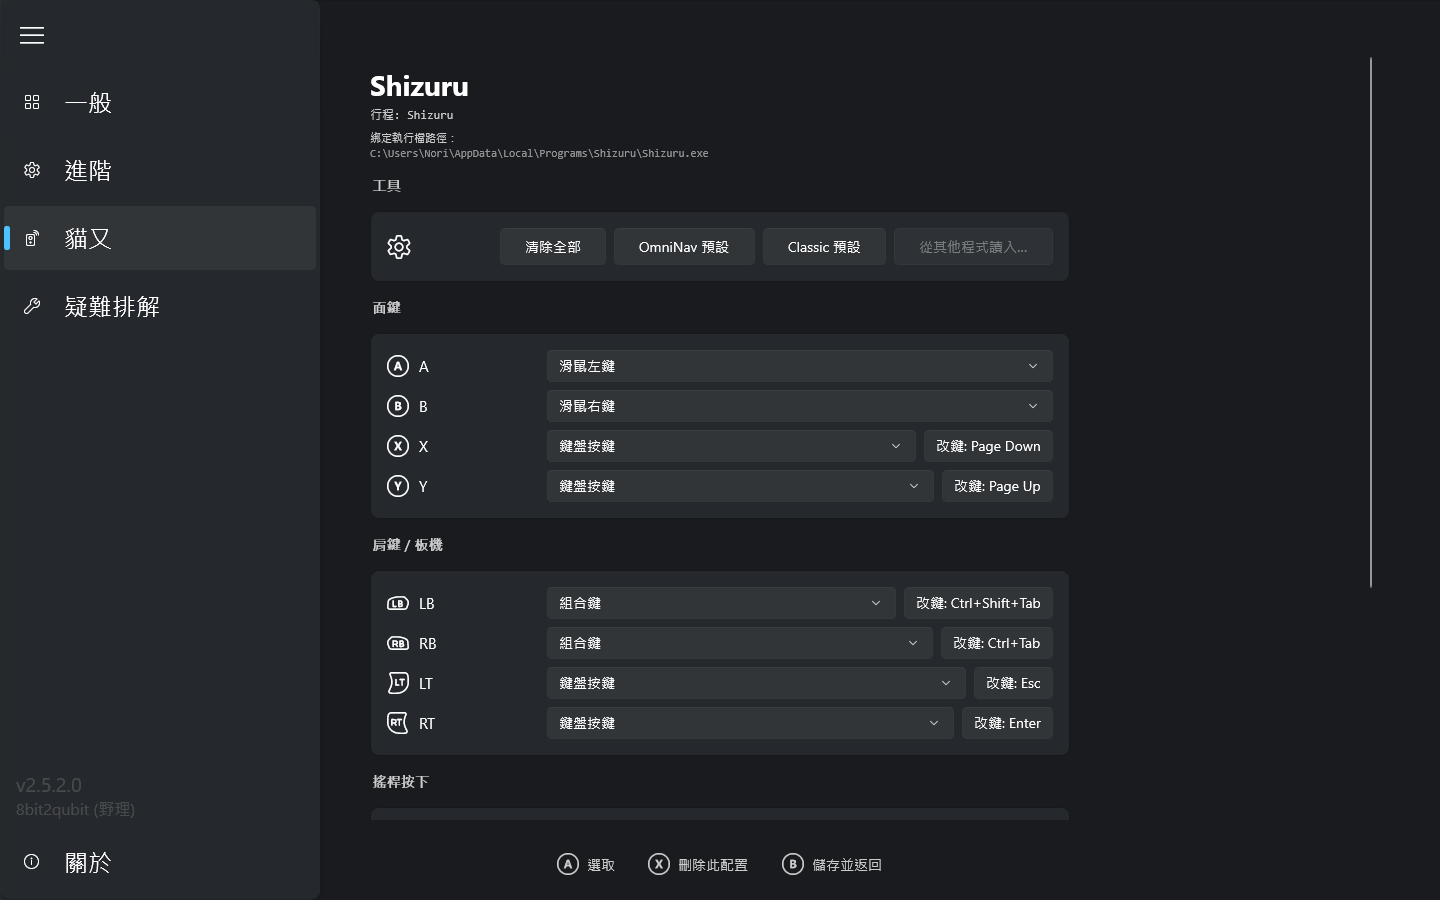
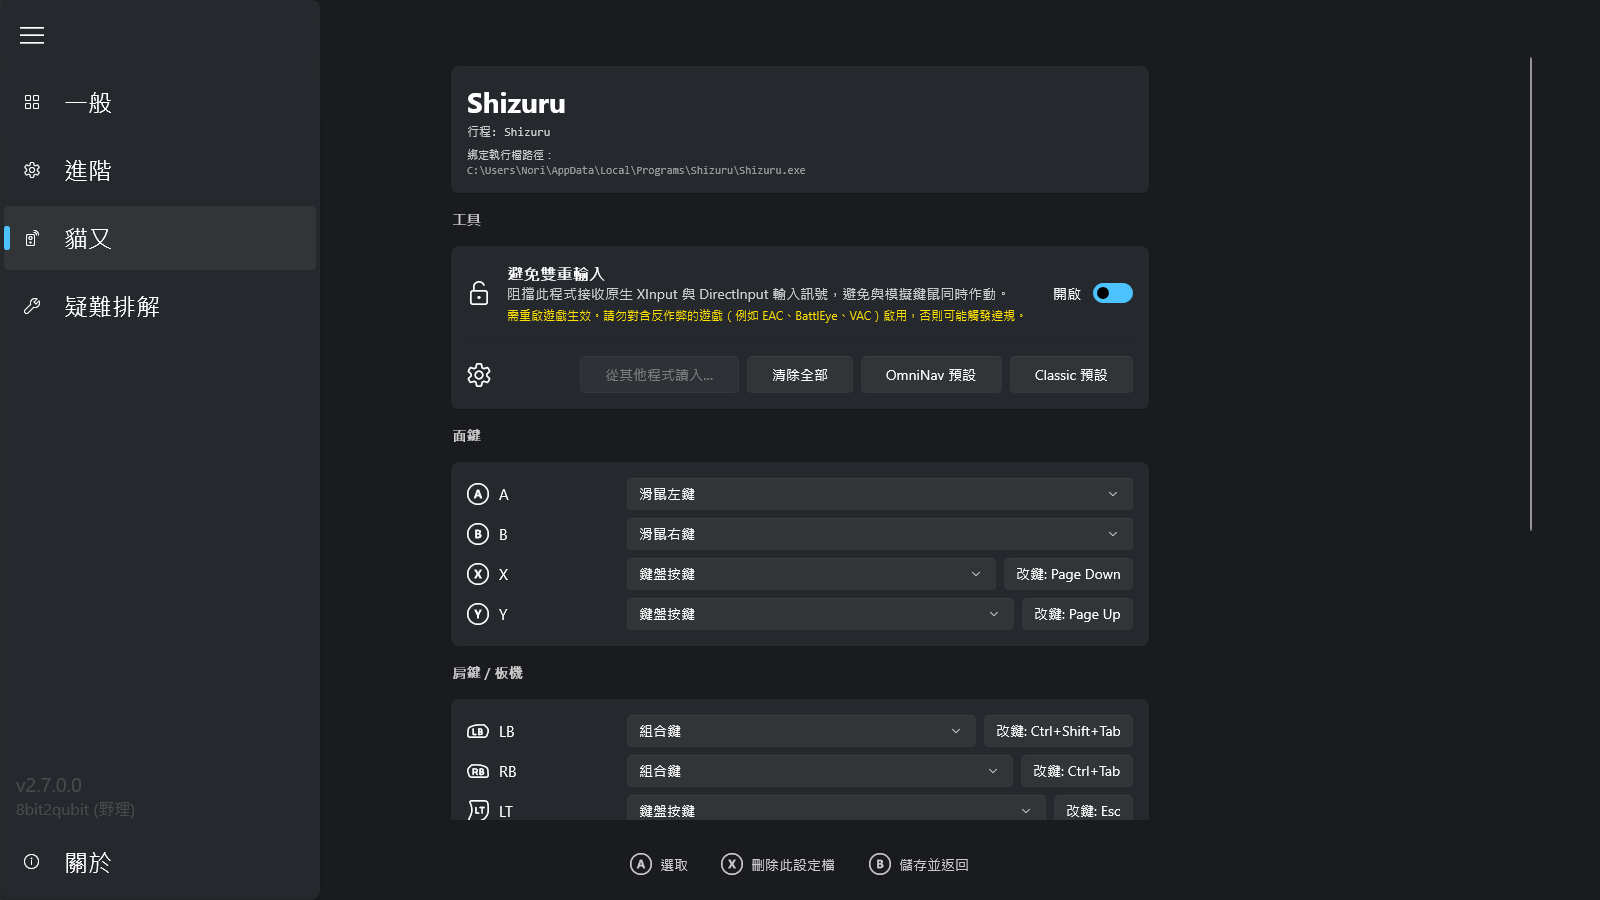
chore: Bump version to 2.7.0.0 and introduce Nekomata profile search and double-input blocking

diff --git a/README.zh-TW.md b/README.zh-TW.md
@@ -19,7 +19,9 @@
 
 ## 💡 什麼是 OmniConsole？
 
-OmniConsole 在 PC 與掌機（ROG Xbox Ally X 等）上作為你的 Windows 11 Xbox 模式 (FSE) 首頁殼層，並提供 OmniCharm Game Bar 小工具、滑鼠模式、Steam 快捷鍵與貓又的各程式手把映射，讓一切操作都不離手把。只要觸發 Xbox 模式 (FSE)，OmniConsole 就會自動啟動你設定的遊戲平台。任何平台都能當你的 Xbox 模式 (FSE) 首頁 — Steam、Xbox、Epic、Armoury Crate SE、Playnite，或你自行新增的平台。
+OmniConsole 在 PC 與掌機（ROG Xbox Ally X 等）上作為你的 Windows 11 Xbox 模式 (FSE) 首頁殼層，並提供 OmniCharm Game Bar 小工具、滑鼠模式、Steam 快捷鍵與貓又的各程式手把映射，讓一切操作都不離手把。
+
+只要觸發 Xbox 模式 (FSE)，OmniConsole 就會自動啟動你設定的遊戲平台。任何平台都能當你的 Xbox 模式 (FSE) 首頁 — Steam、Xbox、Epic、Armoury Crate SE、Playnite，或你自行新增的平台。
 
 - **開機時**：啟用「啟動時進入 Xbox 模式 (FSE)」後，開機即自動啟動你設定的遊戲平台。
 - **使用中**：按下 **Xbox 鍵**，點選 Game Bar 的「**首頁**」啟動遊戲平台，或點選「**媒體櫃**」開啟 OmniConsole 設定。
@@ -41,7 +43,7 @@ OmniConsole 在 PC 與掌機（ROG Xbox Ally X 等）上作為你的 Windows 11 
 - **手把支援** – 以**方向鍵**或**左搖桿**導覽；**A 鍵**確認、**B 鍵**退出、**LB/RB** 切換分類索引標籤、**Y 鍵**新增自訂平台、**X 鍵**編輯，**Menu（☰）鍵**將聚焦平台設為預設並立即啟動（僅在 OmniConsole 於 Xbox 模式 (FSE) 中執行時可用）。
 - **手把滑鼠模式** – 將手把當作滑鼠與鍵盤使用。三種模式：**關閉**、**自動**（瀏覽器、檔案總管、Steam、Epic Games Store、Discord）與**強制開啟**（所有應用程式，排除清單除外）。游標速度可調，並提供兩種控制器版面配置：**OmniNav** 與 **Classic**。
 - **OmniCharm 小工具** – 遊戲中快速存取的 Game Bar 小工具：一鍵開啟**工作檢視**、**Xbox 媒體櫃**或 **Steam 遊戲內嵌介面**；切換**手把滑鼠模式**、控制器版面、游標速度與 **Steam 遊戲內嵌介面**（長按 ☰）。
-- **貓又 — 自訂各程式手把映射** – 貓又為每個程式編一道咒，將所有 XInput 輸入位（A/B/X/Y、LB/RB、LT/RT、LS/RS、十字鍵、雙搖桿）重新映射為鍵盤按鍵、修飾鍵組合、滑鼠按鍵、滾輪、游標移動、捲動、方向鍵或 WASD。從 OmniCharm 小工具的「自訂此程式的手把映射…」按鈕進入編輯器。
+- **貓又 — 自訂各程式手把映射** – 貓又為每個程式編一道咒，將所有 XInput 輸入位（A/B/X/Y、LB/RB、LT/RT、LS/RS、十字鍵、雙搖桿）重新映射為鍵盤按鍵、修飾鍵組合、滑鼠按鍵、滾輪、游標移動、捲動、方向鍵或 WASD。每個程式的咒語還可**避免雙重輸入** — 阻擋該程式自身的原生 XInput 與 DirectInput 訊號，避免與映射後的鍵鼠相互干擾。從 OmniCharm 小工具的「自訂此程式的手把映射…」按鈕進入編輯器。
 - **手把 Steam 快捷鍵** – 手把 **⧉** 按鍵對應 Steam Big Picture 模式快捷：短按開啟 **Steam 選單**，長按喚出**快速存取選單**。在遊戲中長按 **☰** 可開啟 **Steam 遊戲內嵌介面**。
 - **專屬設定入口** – 「所有應用程式」中獨立的「**OmniConsole 設定**」項目，隨時可更改預設平台。
 - **原生 Xbox 模式 (FSE) 整合** – 透過 Windows 11 Xbox 模式 (FSE) 官方 API 註冊為主畫面應用程式。

diff --git a/README.md b/README.md
@@ -19,7 +19,9 @@
 
 ## 💡 What is OmniConsole?
 
-OmniConsole serves as your Windows 11 Xbox Mode (FSE) Home shell on PCs and handhelds (ROG Xbox Ally X, etc.), with an OmniCharm Game Bar widget, Mouse Mode, Steam shortcuts, and Nekomata per-app gamepad mapping so everything stays on the gamepad. Whenever Xbox Mode (FSE) activates, OmniConsole launches your configured gaming platform. Any platform can be your Xbox Mode (FSE) Home — Steam, Xbox, Epic, Armoury Crate SE, Playnite, or anything you add.
+OmniConsole serves as your Windows 11 Xbox Mode (FSE) Home shell on PCs and handhelds (ROG Xbox Ally X, etc.), with an OmniCharm Game Bar widget, Mouse Mode, Steam shortcuts, and Nekomata per-app gamepad mapping so everything stays on the gamepad.
+
+Whenever Xbox Mode (FSE) activates, OmniConsole launches your configured gaming platform. Any platform can be your Xbox Mode (FSE) Home — Steam, Xbox, Epic, Armoury Crate SE, Playnite, or anything you add.
 
 - **On boot**: With "Enter Xbox mode (FSE) on startup" enabled, your gaming platform launches automatically at boot.
 - **During use**: Press the **Xbox button**, then select **"Home"** in Game Bar to launch your gaming platform, or **"Library"** to open OmniConsole Settings.
@@ -41,7 +43,7 @@ OmniConsole serves as your Windows 11 Xbox Mode (FSE) Home shell on PCs and hand
 - **Gamepad support** – Navigate with **D-Pad** or **Left Stick**; **A** to confirm, **B** to exit, **LB/RB** to switch category tabs, **Y** to add a custom platform, **X** to edit, and **Menu (☰)** to set the focused platform as default and launch it immediately (when running inside Xbox Mode (FSE)).
 - **Gamepad Mouse Mode** – Use your gamepad as a mouse and keyboard. Three modes: **Off**, **Auto** (browsers, File Explorer, Steam, Epic Games Store, Discord), and **Force On** (all apps except an exclusion list). Cursor speed is adjustable, with two controller layouts to choose from: **OmniNav** and **Classic**.
 - **OmniCharm widget** – A Game Bar widget for in-game quick access. Open **Task View**, the **Xbox Library**, or the **Steam Overlay** in one tap; toggle **Gamepad Mouse Mode**, controller layout, cursor speed, and the **Steam In-Game Overlay** (long-press ☰).
-- **Nekomata — custom per-app gamepad mapping** – Nekomata weaves a charm for each app, remapping every XInput input (A/B/X/Y, LB/RB, LT/RT, LS/RS, D-pad, both sticks) to a keyboard key, modifier combo, mouse button, scroll wheel, cursor movement, scrolling, arrow keys, or WASD. Open the editor from the OmniCharm widget's "Customize gamepad mapping for this app…" button.
+- **Nekomata — custom per-app gamepad mapping** – Nekomata weaves a charm for each app, remapping every XInput input (A/B/X/Y, LB/RB, LT/RT, LS/RS, D-pad, both sticks) to a keyboard key, modifier combo, mouse button, scroll wheel, cursor movement, scrolling, arrow keys, or WASD. Each app's charm can also **prevent double input** — blocking the app's own native XInput and DirectInput signals to keep them from interfering with the remapped keyboard and mouse. Open the editor from the OmniCharm widget's "Customize gamepad mapping for this app…" button.
 - **Gamepad Steam shortcuts** – The gamepad **⧉** button controls Steam Big Picture shortcuts: short press opens the **Steam Menu**, long press opens the **Quick Access Menu**. Long press **☰** in-game to open the **Steam In-Game Overlay**.
 - **Dedicated Settings entry** – A separate "**OmniConsole Settings**" entry in All Apps lets you change your default platform anytime.
 - **Native Xbox Mode (FSE) integration** – Registered as a Windows 11 Xbox Mode (FSE) Home App through the official API.
